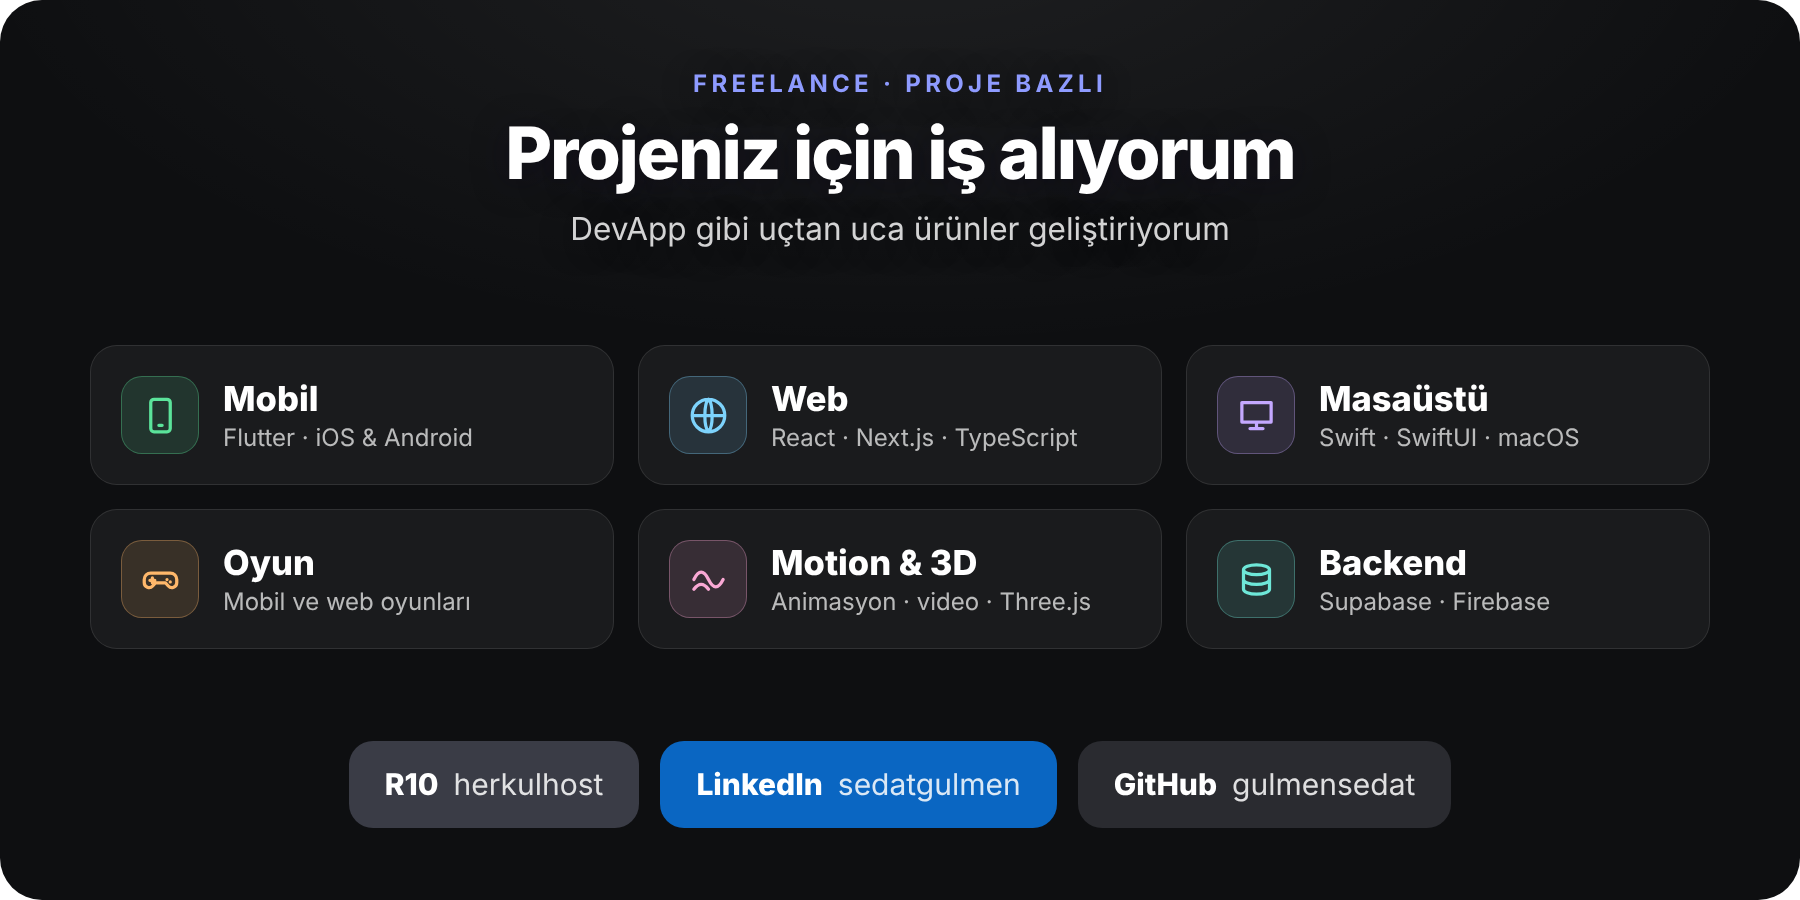
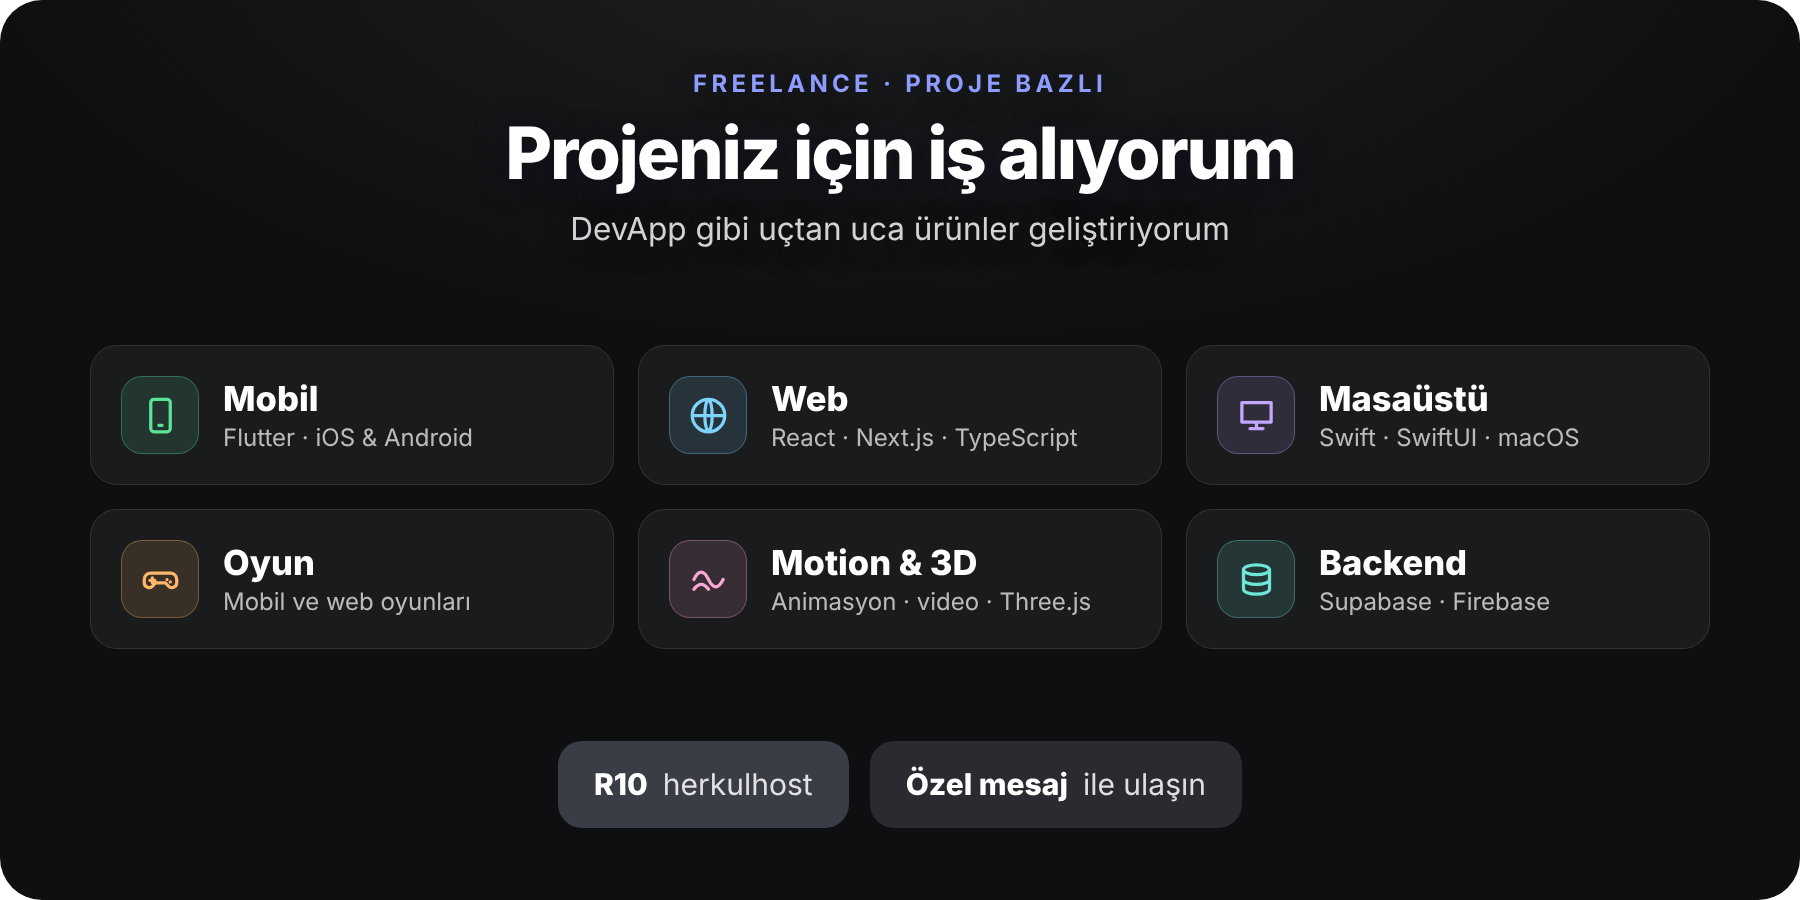
remove

Changed region(s): [[0.1867, 0.8089, 0.8089, 0.9333]]

diff --git a/docs/forum/r10.md b/docs/forum/r10.md
@@ -11,8 +11,6 @@ DevApp: Projeleriniz, Terminalleriniz ve Claude / Codex Tek Pencerede [Açık Ka
 ```
 [CENTER][URL=https://github.com/gulmensedat/devapp][IMG]https://raw.githubusercontent.com/gulmensedat/devapp/main/docs/forum/01-hero.png[/IMG][/URL][/CENTER]
 
-Merhaba arkadaşlar,
-
 Projelerimde [B]Claude Code[/B] ve [B]Codex[/B]'le çalışırken çok fazla terminal kullanıyordum. Hepsini tek yerden yönetebilmek için kendime [B]DevApp[/B]'i geliştirdim: projeleri, dev server'ları ve yapay zekâ ajanlarını tek pencereden yöneten, ücretsiz ve açık kaynak bir [B]macOS uygulaması[/B]. Başkalarının da işine yarayabilir diye paylaşıyorum.
 
 [CENTER][IMG]https://raw.githubusercontent.com/gulmensedat/devapp/main/docs/forum/02-ozellikler.png[/IMG]
